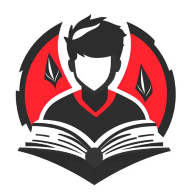
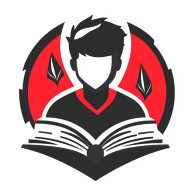
modify pages ui

diff --git a/src/components/Pages/DayHomework/modules/LessonCarousel/LessonCarousel.tsx b/src/components/Pages/DayHomework/modules/LessonCarousel/LessonCarousel.tsx
@@ -1,0 +1,65 @@
+import styles from './LessonCarousel.module.css';
+import { Typhography } from '@/components/ui/Typhography';
+import clsx from 'clsx';
+import { Mousewheel } from 'swiper/modules';
+import { Swiper, SwiperRef, SwiperSlide } from 'swiper/react';
+
+interface LessonCarouselProps {
+  subjects: GetSubjectsResponse | undefined;
+  getSubjectsState: { isLoading: boolean; isSuccess: boolean; isError: boolean };
+  onElemClick: (currentRef: React.RefObject<SwiperRef>, index: number) => void;
+  onScrollSubject: () => void;
+  subjectRef: React.RefObject<SwiperRef>;
+  homeworkId: number;
+}
+
+export const LessonCarousel = ({
+  subjects,
+  getSubjectsState,
+  onElemClick,
+  onScrollSubject,
+  subjectRef,
+  homeworkId
+}: LessonCarouselProps) => {
+  return (
+    <article className={styles['subjects']}>
+      <Typhography tag="h3" variant="thirdy" className={styles['title']} children={`Предмет`} />
+      {(getSubjectsState.isLoading || getSubjectsState.isError) && <div className={styles['swiper-container']} />}
+      {getSubjectsState.isSuccess && (
+        <Swiper
+          ref={subjectRef}
+          direction="vertical"
+          slidesPerView={3}
+          spaceBetween={10}
+          loop={true}
+          tag="ul"
+          onSlideChange={onScrollSubject}
+          centeredSlides={true}
+          modules={[Mousewheel]}
+          mousewheel={{
+            sensitivity: 4,
+            forceToAxis: true,
+            releaseOnEdges: true,
+            thresholdTime: 100
+          }}
+          className={styles['swiper-container']}
+        >
+          {subjects?.map((subject, index) => (
+            <SwiperSlide
+              tag="li"
+              key={subject.subject_id}
+              className={clsx(
+                styles['swiper-elem'],
+                styles['subjects-padd'],
+                homeworkId === subject.subject_id && styles['active']
+              )}
+              onClick={() => onElemClick(subjectRef, index)}
+            >
+              <Typhography tag="p" variant="thirdy" className={styles['text']} children={subject.subject_name} />
+            </SwiperSlide>
+          ))}
+        </Swiper>
+      )}
+    </article>
+  );
+};

diff --git a/src/components/Pages/DayHomework/Desktop/DayHomeworkDesktop.tsx b/src/components/Pages/DayHomework/Desktop/DayHomeworkDesktop.tsx
@@ -1,7 +1,7 @@
 import React from 'react';
 
-import { LessonCarousel } from '../../../shared/LessonCarousel/LessonCarousel';
 import { generateValues } from '../helpers/generateValues';
+import { LessonCarousel } from '../modules/LessonCarousel/LessonCarousel';
 import { SendHomework } from '../modules/SendHomework/SendHomework';
 
 import 'swiper/swiper-bundle.css';
@@ -10,7 +10,10 @@ import { CarouselMonth } from '@/components/shared/CarouselMonth/CarouselMonth';
 import { Input } from '@/components/ui/Input';
 import { Typhography } from '@/components/ui/Typhography';
 import { findIndexByDate } from '@/utils/helpers/findIndexByDate';
-import { usePostModeratorAddHomeworkDateMutation } from '@/utils/redux/apiSlices/scheduleApiSlice/scheduleApi';
+import {
+  useGetSubjectsQuery,
+  usePostModeratorAddHomeworkDateMutation
+} from '@/utils/redux/apiSlices/scheduleApiSlice/scheduleApi';
 import clsx from 'clsx';
 import { Mousewheel } from 'swiper/modules';
 import { Swiper, SwiperRef, SwiperSlide } from 'swiper/react';
@@ -74,8 +77,11 @@ export const DayHomeworkDesktop = () => {
     });
   };
 
+  const getSubjectsQuery = useGetSubjectsQuery(undefined);
+
   const onScrollSubject = () => {
-    setHomeworkId(subjectRef.current!.swiper.realIndex + 1);
+    if (!getSubjectsQuery.data?.length) return;
+    setHomeworkId(getSubjectsQuery.data[subjectRef.current!.swiper.realIndex].subject_id);
   };
 
   const onClickChooseDate = (index: number) => {
@@ -106,7 +112,7 @@ export const DayHomeworkDesktop = () => {
           monthCarouselRef={monthCarouselRef}
           activeMonthNode={activeMonthNode}
         />
-        <div>
+        <div className={styles['add-homework']}>
           <div className={styles['container']}>
             <Input
               onChange={(e) => setHomeworkText(e.target.value)}
@@ -115,8 +121,13 @@ export const DayHomeworkDesktop = () => {
               name="homeworkText"
             />
           </div>
-
           <LessonCarousel
+            subjects={getSubjectsQuery.data}
+            getSubjectsState={{
+              isLoading: getSubjectsQuery.isLoading,
+              isSuccess: getSubjectsQuery.isSuccess,
+              isError: getSubjectsQuery.isError
+            }}
             onElemClick={onElemClick}
             onScrollSubject={onScrollSubject}
             subjectRef={subjectRef}

diff --git a/src/components/Pages/DayHomework/Mobile/DayHomeworkMobile.tsx b/src/components/Pages/DayHomework/Mobile/DayHomeworkMobile.tsx
@@ -1,7 +1,7 @@
 import React from 'react';
 
-import { LessonCarousel } from '../../../shared/LessonCarousel/LessonCarousel';
 import { generateValues } from '../helpers/generateValues';
+import { LessonCarousel } from '../modules/LessonCarousel/LessonCarousel';
 import { SendHomework } from '../modules/SendHomework/SendHomework';
 
 import 'swiper/swiper-bundle.css';
@@ -10,7 +10,10 @@ import { CarouselWeek } from '@/components/shared/CarouselWeek/CarouselWeek';
 import { Input } from '@/components/ui/Input';
 import { Typhography } from '@/components/ui/Typhography';
 import { findIndexByDate } from '@/utils/helpers/findIndexByDate';
-import { usePostModeratorAddHomeworkDateMutation } from '@/utils/redux/apiSlices/scheduleApiSlice/scheduleApi';
+import {
+  useGetSubjectsQuery,
+  usePostModeratorAddHomeworkDateMutation
+} from '@/utils/redux/apiSlices/scheduleApiSlice/scheduleApi';
 import clsx from 'clsx';
 import { motion } from 'framer-motion';
 import { Mousewheel } from 'swiper/modules';
@@ -75,8 +78,11 @@ export const DayHomeworkMobile = () => {
     });
   };
 
+  const getSubjectsQuery = useGetSubjectsQuery(undefined);
+
   const onScrollSubject = () => {
-    setHomeworkId(subjectRef.current!.swiper.realIndex + 1);
+    if (!getSubjectsQuery.data?.length) return;
+    setHomeworkId(getSubjectsQuery.data[subjectRef.current!.swiper.realIndex].subject_id);
   };
 
   const onClickChooseDate = (index: number) => {
@@ -143,8 +149,13 @@ export const DayHomeworkMobile = () => {
         weekCarouselRef={weekCarouselRef}
         activeWeekNode={activeWeekNode}
       />
-
       <LessonCarousel
+        subjects={getSubjectsQuery.data}
+        getSubjectsState={{
+          isLoading: getSubjectsQuery.isLoading,
+          isSuccess: getSubjectsQuery.isSuccess,
+          isError: getSubjectsQuery.isError
+        }}
         onElemClick={onElemClick}
         onScrollSubject={onScrollSubject}
         subjectRef={subjectRef}

diff --git a/src/components/modules/Header/Header.module.css b/src/components/modules/Header/Header.module.css
@@ -10,7 +10,7 @@
   @media (min-width: 1050px) {
     max-width: var(--max-width-desktop);
     padding: 1rem 0 0;
-    margin-bottom: 40px;
+    margin-bottom: 36px;
   }
 }
 
@@ -24,9 +24,9 @@
 }
 
 .journal {
-  border: 2px solid transparent;
   padding: 0.125rem 0.5rem;
-  transition: 0.3s ease-in-out;
+  transition: 0.4s ease-in-out;
+  border-radius: 1rem;
 }
 
 .icon {
@@ -36,21 +36,20 @@
   height: 24px;
   cursor: pointer;
   color: #fff;
-  border: 2px solid transparent;
-  transition: 0.3s ease-in-out;
+  transition: 0.4s ease-in-out;
+  border-radius: 0.5rem;
 }
 
 .add-icon {
   padding: 0.25rem;
   box-sizing: content-box;
-  border: 2px solid transparent;
   margin: 0 auto;
   width: 24px;
   height: 24px;
-  transition: 0.3s ease-in-out;
+  transition: 0.4s ease-in-out;
+  border-radius: 0.5rem;
 }
 
 .current {
-  border: 2px solid var(--border-focus-color);
-  border-radius: 0.5rem;
+  background-color: var(--border-focus-color);
 }

diff --git a/src/components/modules/Header/Header.tsx b/src/components/modules/Header/Header.tsx
@@ -1,6 +1,15 @@
 import { useSelector } from 'react-redux';
 import { Link, useLocation } from 'react-router-dom';
 
+import {
+  admin,
+  journalDesktop,
+  journalMobile,
+  moderatorDesktop,
+  moderatorMobile,
+  note
+} from '../Router/constants/routes';
+
 import styles from './Header.module.css';
 import { AdminLogo } from '@/components/ui/Icons/Admin';
 import { ModeratorLogo } from '@/components/ui/Icons/Moderator';
@@ -11,13 +20,10 @@ import { AdminRole, ModeratorRole } from '@/utils/constants/userRoles';
 import { JournalChooseMedia, ModeratorChooseMedia } from '@/utils/helpers/ChooseMedia';
 import { getUser } from '@/utils/redux/storeSlices/userSlice/selectors';
 import clsx from 'clsx';
-import { admin, journalDesktop, journalMobile, moderatorDesktop, moderatorMobile, note } from '../Router/constants/routes';
 
 export const Header = () => {
   const { role, group_name } = useSelector(getUser);
   const page = useLocation().pathname;
-
-  console.log(page);
 
   return (
     <header className={styles.header}>

diff --git a/src/components/Pages/DayHomework/Desktop/DayHomeworkDesktop.module.css b/src/components/Pages/DayHomework/Desktop/DayHomeworkDesktop.module.css
@@ -9,6 +9,11 @@
   gap: 0.7rem;
 }
 
+.add-homework {
+  margin: auto;
+  width: 45%;
+}
+
 .container {
   padding: 0 16px;
 }

diff --git a/src/components/Pages/Journal/modules/CarouselDay/components/Lesson/LessonCard/AddLessonHomework/AddLessonHomework.tsx b/src/components/Pages/Journal/modules/CarouselDay/components/Lesson/LessonCard/AddLessonHomework/AddLessonHomework.tsx
@@ -34,12 +34,14 @@ export const AddLessonHomework = ({ apiData, addHomework }: ModeratorBlockProps)
         homeworkID: postModeratorAddHomeworkClassResponse.data.homework_id,
         isCompleted: false
       });
+      setHomeworkText('');
     }
   };
 
   return (
     <article className={styles['section']}>
       <Input
+        value={homeworkText}
         onChange={(e) => setHomeworkText(e.target.value)}
         label="Добавить задание"
         variant="homework"

diff --git a/src/components/Pages/SubjectsNote/NoteList/NotesList.tsx b/src/components/Pages/SubjectsNote/NoteList/NotesList.tsx
@@ -37,6 +37,7 @@ export const NotesList = ({ subjectNotes, subjectId }: NotesListProps) => {
 
   const addNote = (note: Note) => {
     setNotes((prev) => [...prev, note]);
+    setAddNoteOpen(false);
   };
 
   const removeNoteId = () => {

diff --git a/src/components/shared/CarouselMonth/CarouselMonth.tsx b/src/components/shared/CarouselMonth/CarouselMonth.tsx
@@ -69,7 +69,6 @@ export const CarouselMonth = ({
             currentDate={values[currentDate.day]}
             firstSessionDay={firstSessionDay}
             monthsNumbers={monthsNumbers}
-            index={currentDate.day}
             variant="desktop"
           />
           <div className={styles['dropdown']} ref={menuRef}>

diff --git a/src/components/shared/CarouselWeek/CarouselWeek.tsx b/src/components/shared/CarouselWeek/CarouselWeek.tsx
@@ -50,7 +50,6 @@ export const CarouselWeek = ({
           currentDate={values[currentDate.day]}
           firstSessionDay={firstSessionDay}
           monthsNumbers={monthsNumbers}
-          index={currentDate.day}
           variant="mobile"
         />
         <Button className="custom-next" variant="slide">

diff --git a/src/components/shared/modules/WeekHeader/WeekHeader.tsx b/src/components/shared/modules/WeekHeader/WeekHeader.tsx
@@ -10,7 +10,6 @@ interface WeekHeaderProps {
   currentDate: { year: number; month: number; day: number };
   firstSessionDay: { year: number; month: number; day: number };
   monthsNumbers: number[];
-  index: number;
   variant: WeekHeaderVariant;
 }
 